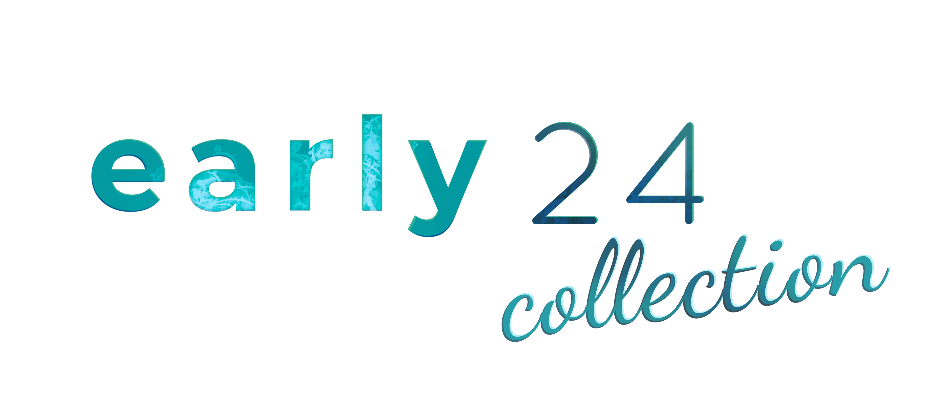
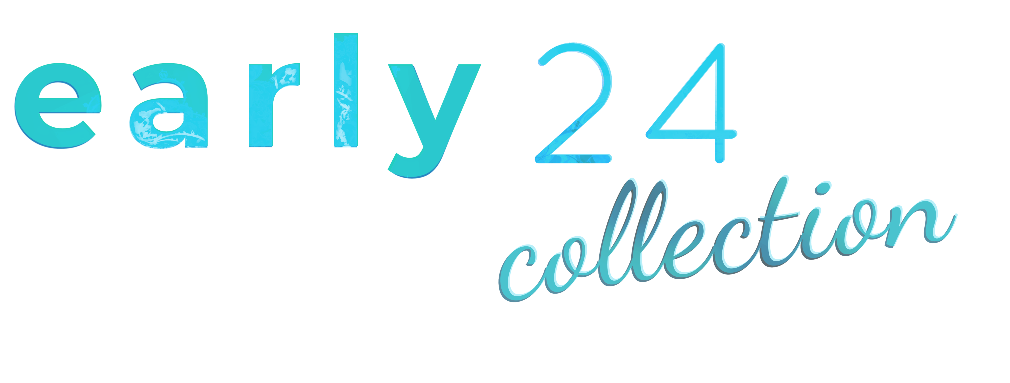
added true fullscreen

Changed region(s): [[0.0, 0.0862, 0.9523, 0.8329]]

diff --git a/css/headers.css b/css/headers.css
@@ -29,23 +29,29 @@
     background: transparent;
     object-fit: contain;
     position: absolute;
-    top: 8%;
-    left: 4%;
-    width: var(--header-2-width);
+    /* bottom: 3%; */
+    left: 50%;
+    transform: translateX(-50%);
+    width: max(150px, var(--header-2-width));
     z-index: 1005;
 }
 
-.header-2-button {
-    display: block;
-    background: transparent;
-    object-fit: contain;
-    position: absolute;
-    top: 8%;
-    bottom: 86%;
-    left: 4%;
-    width: 20%;
-    z-index: 1005;
+@media (orientation: landscape) {
+    .header-2 {
+        top: 3%;
+        left: 50%;
+        transform: translateX(-50%);
+    }
 }
+
+@media (orientation: portrait) {
+    .header-2 {
+        top: 10%;
+        left: 50%;
+        transform: translateX(-50%);
+    }
+}
+
 
 .header-2 img {
     height: 100%;

diff --git a/js/input.js b/js/input.js
@@ -45,10 +45,10 @@ export function handleEnd(e) {
     if (target.tagName.toLowerCase() === 'a') {
         return;
     }
-    if (target && target.closest('.overlay-buttons')) {
-        fadeInButtons();
-        return ;
-    }
+    // if (target && target.closest('.overlay-buttons')) {
+    //     fadeInButtons();
+    //     return ;
+    // }
     if (target && target.closest('.header-2')) {
         toggleCollections();
         collectionsHidden = !collectionsHidden;

diff --git a/js/fullscreen.js b/js/fullscreen.js
@@ -41,7 +41,7 @@ export function fullScreen () {
     } else if (fullScreenOverlay.msRequestFullscreen) { // IE/Edge
         fullScreenOverlay.msRequestFullscreen();
     }
-    
+
     closeButton.addEventListener('click', () => {
         console.log('Fullscreen button clicked');
         fullScreenOverlay.remove();

diff --git a/css/menu.css b/css/menu.css
@@ -17,7 +17,7 @@
 
 @media (orientation: portrait) {
     .menu-area {
-        width: max(55%, 300px);
+        width: max(55%, 370px);
     }
 }
 
